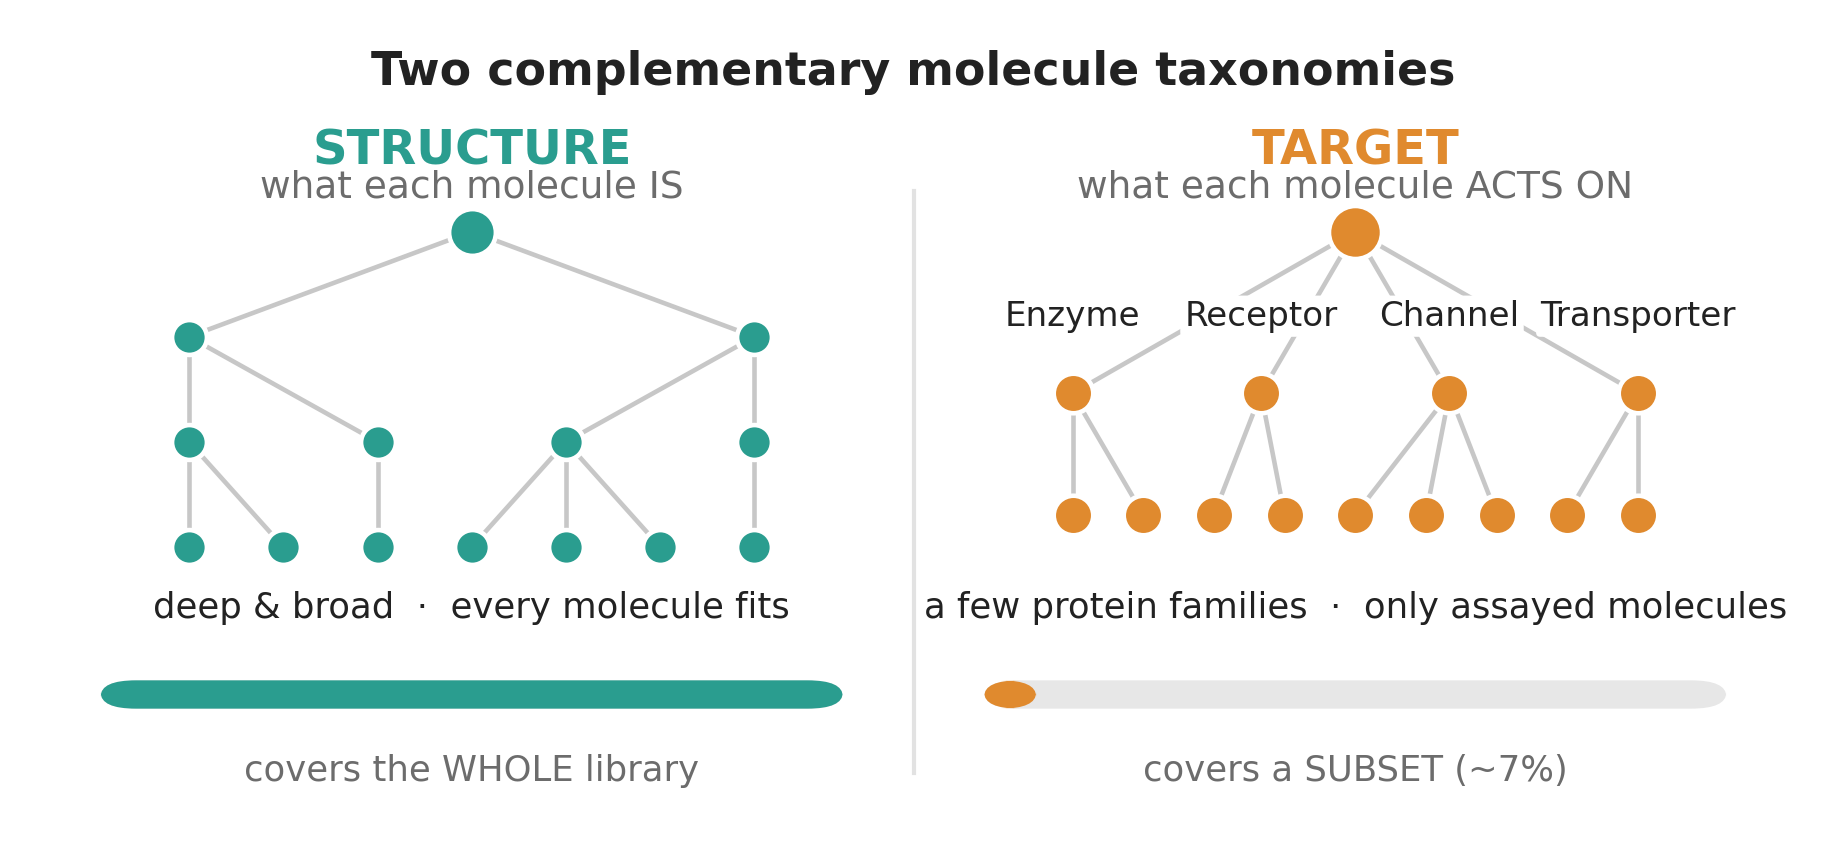
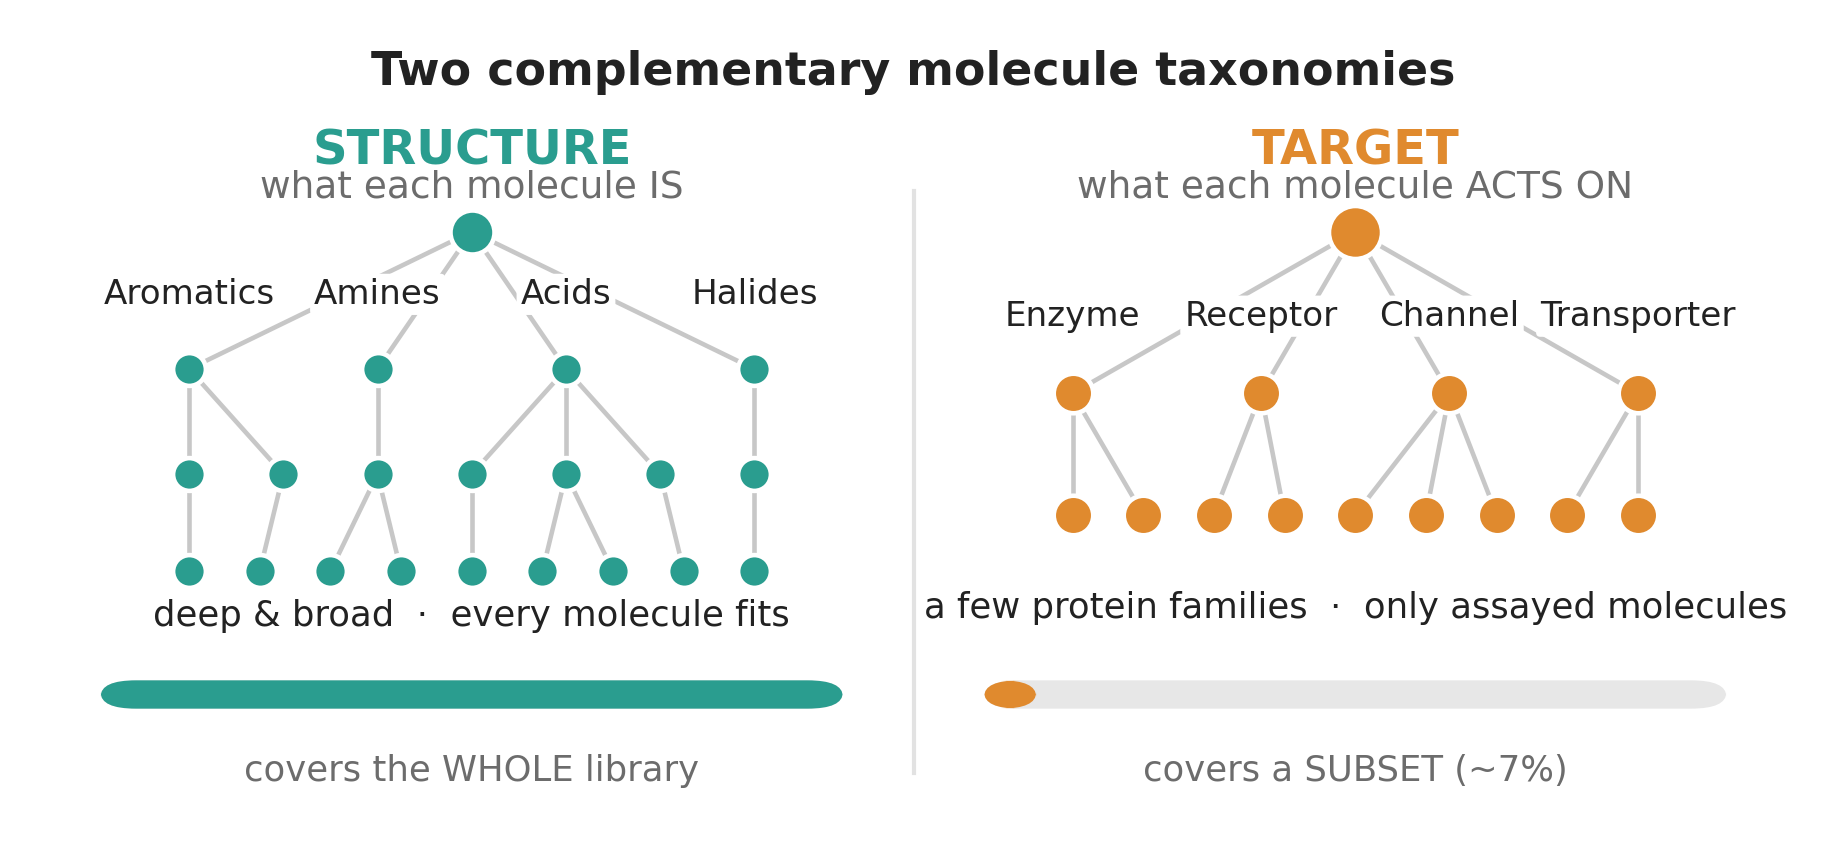
Figure: add example structural families (Aromatics/Amines/Acids/Halides) to the left panel
Mirrors the target panel's example labels; spacing tuned so nothing overlaps. Report PDF
regenerated to embed the updated figure.

Claude-Session: https://claude.ai/code/session_01RPLV3FsCZ5t6q7ybykV94R

Changed region(s): [[0.0624, 0.28, 0.4368, 0.7465], [0.4056, 0.4977, 0.4368, 0.5599]]

diff --git a/scripts/v4/make_taxonomy_figure.py b/scripts/v4/make_taxonomy_figure.py
@@ -66,9 +66,13 @@ ax.text((lx0 + lx1) / 2, 0.85, "STRUCTURE", ha="center", va="center",
         fontsize=11.5, color=TEAL, fontweight="bold")
 ax.text((lx0 + lx1) / 2, 0.805, "what each molecule IS", ha="center", va="center",
         fontsize=9, color=GREY)
-Ltree = positions([1, 2, 4, 7], lx0, lx1, [0.75, 0.62, 0.49, 0.36])
-draw_tree(ax, Ltree, TEAL, node_s=70)
-ax.text((lx0 + lx1) / 2, 0.285, "deep & broad  ·  every molecule fits",
+Ltree = positions([1, 4, 7, 9], lx0, lx1, [0.75, 0.58, 0.45, 0.33])
+draw_tree(ax, Ltree, TEAL, node_s=62)
+# four short example structural families on the L1 row (same style as the right panel)
+for (x, y), lab in zip(Ltree[1], ["Aromatics", "Amines", "Acids", "Halides"]):
+    ax.text(x, y + 0.072, lab, ha="center", va="bottom", fontsize=8.2, color=DARK,
+            bbox=dict(boxstyle="round,pad=0.12", fc="white", ec="none"))
+ax.text((lx0 + lx1) / 2, 0.275, "deep & broad  ·  every molecule fits",
         ha="center", va="center", fontsize=8.5, color=DARK)
 coverage(ax, lx0, lx1, 0.16, 1.0, TEAL, "covers the WHOLE library")
 
